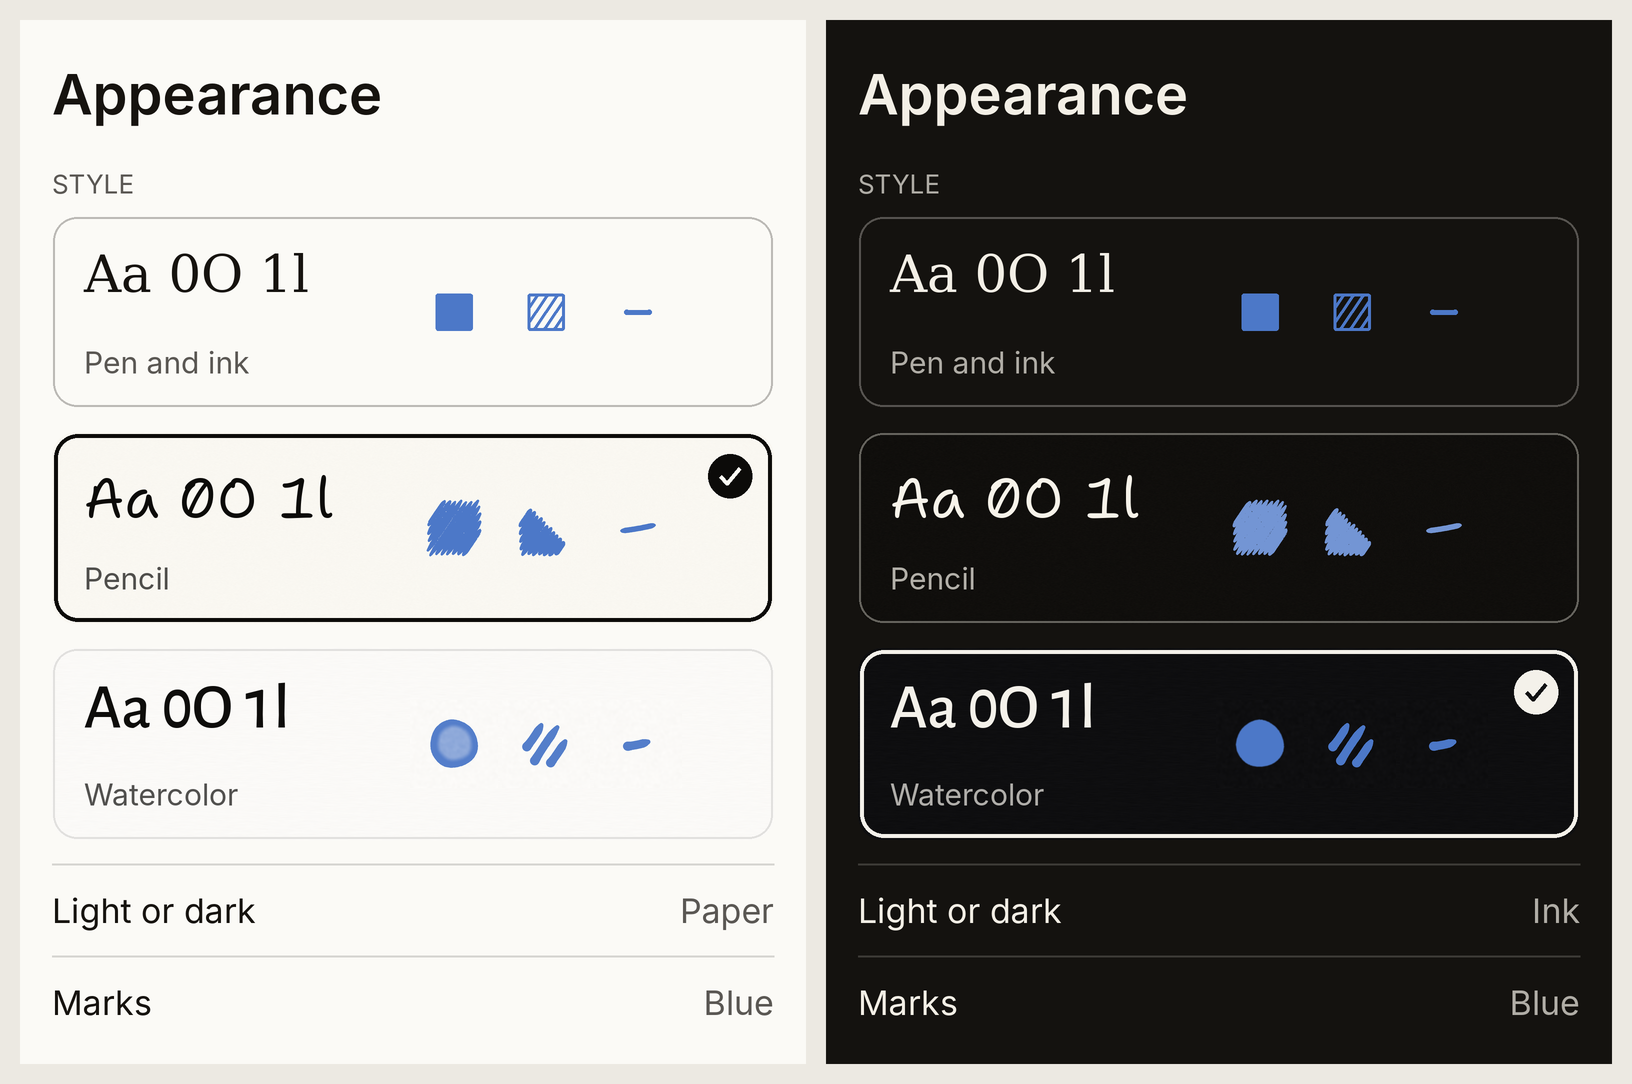
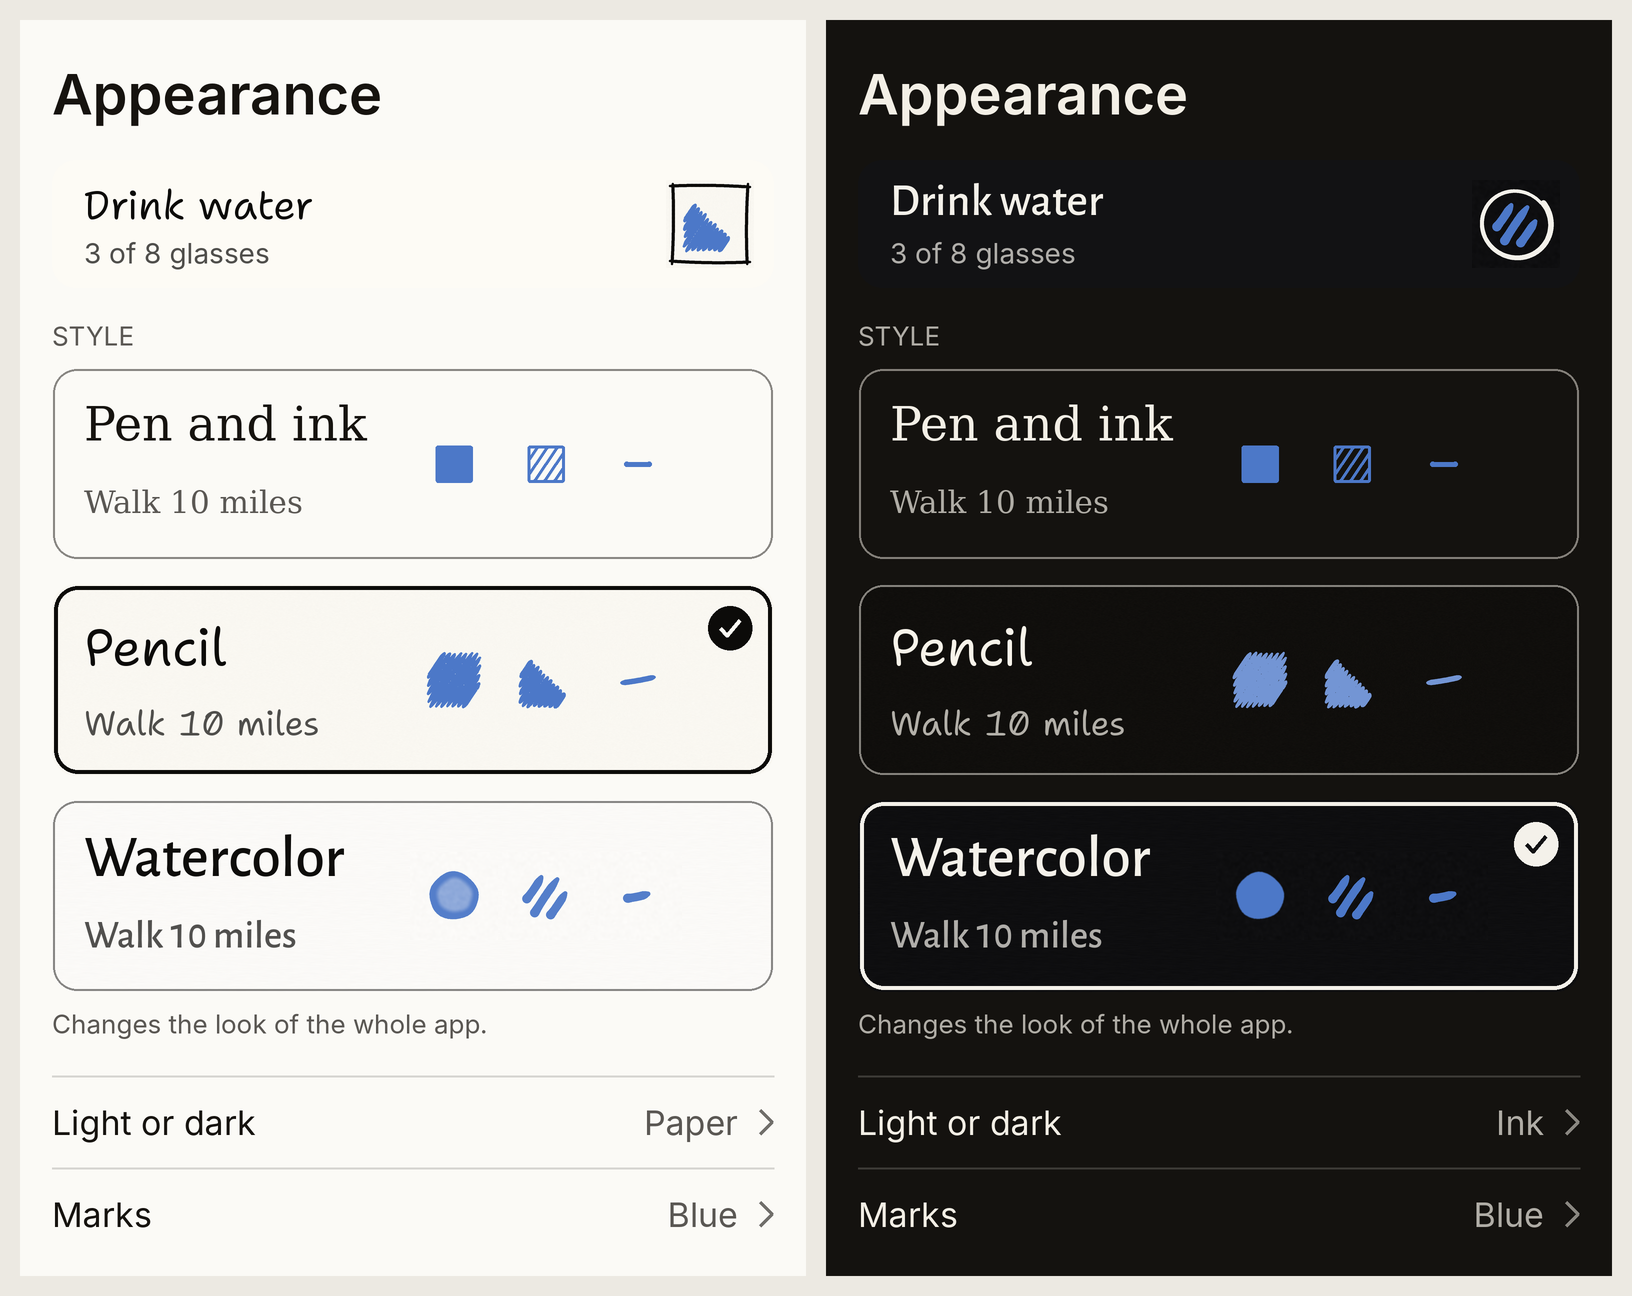
Style picker, round two: name as sample, preview row, 3:1 borders, helper line
Claude-Session: https://claude.ai/code/session_012NdevCAvT4U8qS7nMJ64YM

diff --git a/tools/marks/style_picker.py b/tools/marks/style_picker.py
@@ -46,9 +46,10 @@ def tile(style, name, ap, chosen, accent_hex="blue"):
         tex = np.resize(fm.tooth if style == "pencil" else fm.dimple, (th * Q, tw * Q))[..., None]
         field = field * (1 - g["maxAlpha"] * tex) + fm.hexrgb(g["color"]) * g["maxAlpha"] * tex
     im = Image.fromarray((np.clip(field, 0, 1) * 255).astype("uint8")); d = ImageDraw.Draw(im)
-    f, feats = display(style, 28 * Q); kw = {"features": feats} if feats else {}
-    d.text((16 * Q, 14 * Q), "Aa 0O 1l", font=f, fill=mix(text, text, 0), **kw)
-    d.text((16 * Q, 64 * Q), name, font=system(15 * Q), fill=mix(paper, text, tok["secondaryAlpha"]))
+    f, feats = display(style, 26 * Q); kw = {"features": feats} if feats else {}
+    d.text((16 * Q, 14 * Q), name, font=f, fill=mix(text, text, 0), **kw)                       # the name is the sample: set in the style's own font
+    f2, _ = display(style, 17 * Q)
+    d.text((16 * Q, 58 * Q), "Walk 10 miles", font=f2, fill=mix(paper, text, tok["secondaryAlpha"]), **kw)   # a habit name with 1, l, i and 0 in it
     for i, st in enumerate(("done", "part", "paused")):
         if style == "penAndInk": m = ink_mark(st, mix(paper, paper, 0), mix(accent, accent, 0), Q)
         else:
@@ -58,7 +59,7 @@ def tile(style, name, ap, chosen, accent_hex="blue"):
     r = 12 * Q
     mask = Image.new("L", im.size, 0); ImageDraw.Draw(mask).rounded_rectangle([0, 0, im.width - 1, im.height - 1], radius=r, fill=255)
     bw = 2 * Q if chosen else Q
-    d.rounded_rectangle([bw // 2, bw // 2, im.width - 1 - bw // 2, im.height - 1 - bw // 2], radius=r, outline=mix(text, text, 0) if chosen else mix(paper, text, tok["ruleAlpha"] + 0.12), width=bw)
+    d.rounded_rectangle([bw // 2, bw // 2, im.width - 1 - bw // 2, im.height - 1 - bw // 2], radius=r, outline=mix(text, text, 0) if chosen else mix(paper, text, 0.5), width=bw)   # the unchosen edge holds 3:1
     if chosen:                                                                 # a checkmark in a filled disc, top right: shape, not colour
         cx, cy, rr = (tw - 22) * Q, 22 * Q, 11 * Q
         d.ellipse([cx - rr, cy - rr, cx + rr, cy + rr], fill=mix(text, text, 0))
@@ -68,16 +69,28 @@ def tile(style, name, ap, chosen, accent_hex="blue"):
 
 def page(ap, chosen):
     base = fm.TOK["styles"]["penAndInk"][ap]; bg, text = fm.hexrgb(base["paper"]), fm.hexrgb(base["text"])
-    im = Image.new("RGB", (W * Q, 540 * Q), mix(bg, bg, 0)); d = ImageDraw.Draw(im)
+    im = Image.new("RGB", (W * Q, 660 * Q), mix(bg, bg, 0)); d = ImageDraw.Draw(im)
     d.text((16 * Q, 20 * Q), "Appearance", font=system(28 * Q, True), fill=mix(text, text, 0))
-    d.text((16 * Q, 74 * Q), "STYLE", font=system(13 * Q), fill=mix(bg, text, base["secondaryAlpha"]))
-    y = 98
+    # the preview: one Today row in the chosen style, on that style's paper
+    tok = fm.TOK["styles"][chosen][ap]; pp, pt = fm.hexrgb(tok["paper"]), fm.hexrgb(tok["text"]); accent = fm.hexrgb(fm.TOK["swatches"]["blue"])
+    pv = Image.new("RGB", ((W - 32) * Q, 64 * Q), mix(pp, pp, 0)); pd = ImageDraw.Draw(pv)
+    f, feats = display(chosen, 20 * Q); kw = {"features": feats} if feats else {}
+    pd.text((16 * Q, 9 * Q), "Drink water", font=f, fill=mix(pt, pt, 0), **kw)
+    pd.text((16 * Q, 38 * Q), "3 of 8 glasses", font=system(14 * Q), fill=mix(pp, pt, tok["secondaryAlpha"]))
+    img, _ = fm.render(chosen, ap, "part", accent, outline=True); side = int(fm.N / fm.S * Q)
+    pv.paste(Image.fromarray((np.clip(img, 0, 1) * 255).astype("uint8")).resize((side, side), Image.LANCZOS), (pv.width - side - 10 * Q, (pv.height - side) // 2))
+    pm = Image.new("L", pv.size, 0); ImageDraw.Draw(pm).rounded_rectangle([0, 0, pv.width - 1, pv.height - 1], radius=12 * Q, fill=255)
+    im.paste(pv, (16 * Q, 70 * Q), pm)
+    d.text((16 * Q, 150 * Q), "STYLE", font=system(13 * Q), fill=mix(bg, text, base["secondaryAlpha"]))
+    y = 174
     for style, name in STYLES:
         t, m = tile(style, name, ap, style == chosen); im.paste(t, (16 * Q, y * Q), m); y += 96 + 12
+    d.text((16 * Q, (y - 4) * Q), "Changes the look of the whole app.", font=system(13 * Q), fill=mix(bg, text, base["secondaryAlpha"])); y += 30
     for label, value in (("Light or dark", "Paper" if ap == "paper" else "Ink"), ("Marks", "Blue")):
         d.line([(16 * Q, y * Q), ((W - 16) * Q, y * Q)], fill=mix(bg, text, base["ruleAlpha"]), width=Q)
         d.text((16 * Q, (y + 13) * Q), label, font=system(17 * Q), fill=mix(text, text, 0))
-        vw = d.textlength(value, font=system(17 * Q)); d.text(((W - 16) * Q - vw, (y + 13) * Q), value, font=system(17 * Q), fill=mix(bg, text, base["secondaryAlpha"]))
+        vw = d.textlength(value, font=system(17 * Q)); d.text(((W - 34) * Q - vw, (y + 13) * Q), value, font=system(17 * Q), fill=mix(bg, text, base["secondaryAlpha"]))
+        cx, cy = (W - 20) * Q, (y + 23) * Q; d.line([(cx - 3 * Q, cy - 6 * Q), (cx + 3 * Q, cy), (cx - 3 * Q, cy + 6 * Q)], fill=mix(bg, text, base["tertiaryAlpha"]), width=int(1.8 * Q), joint="curve")   # these rows open lists
         y += 46
     return im.crop((0, 0, W * Q, (y + 8) * Q))
 

diff --git a/docs/spec-m4.md b/docs/spec-m4.md
@@ -220,18 +220,28 @@ Owner feedback, 16 November 2026, on the Pencil rows under Increase Contrast: th
 
 Owner, 16 November 2026: the smoothed Pencil marks read better and more like pencil. On Watercolor under Increase Contrast, the varied line weight of the ring keeps the control from reading as a radio button. The ring's thick start and thin end is therefore kept as a rule, not a detail. The human factors gate still runs before the build, with this view recorded beside it.
 
-## Step 6: the style picker. Rule written, drawn, in review
+## Step 6: the style picker. Round two
 
 Areas: adding a screen, layout, marks and type. It lives on the Appearance page that `docs/spec.md` already describes, in the "Style" row's place. Milestones 1 to 3 have one style, so nothing on `main` conflicts.
 
-The rule:
-- Three tiles, one per style, in the order Pen and ink, Pencil, Watercolor. Each tile is the full width of the page and they sit one under another at every text size. One layout serves the phone, the Mac and the largest text.
-- A tile is that style's own paper in the current appearance, with its grain. On it, from the left: the style's display font showing "Aa 0O 1l" at 28 points or more, then the done, part-done and paused marks at 24 points in the user's mark colour. The style's name sits under the sample in the system font.
-- Watercolor's sample is drawn at 1.15 times the size, as its habit names are.
-- The chosen tile has a 2 point border in the text colour and a checkmark at its top right. The others have a 1 point border in the rule colour. Selection is never shown by colour alone.
-- A tap chooses the style at once. Nothing is confirmed, because choosing again undoes it. The preview row at the top of the page redraws in the new style.
-- Each tile is one button of at least 76 points in height. VoiceOver says the name, then "style", then "selected" for the chosen one.
+The rule, as revised after round one:
+- The page opens with a preview: one Today row in the chosen style, with no scene. It redraws when the style changes.
+- Three tiles, one per style, in the order Pen and ink, Pencil, Watercolor. They sit one under another at every text size. A tile is the full width of the page, up to 360 points on the Mac and iPad.
+- A tile is that style's own paper in the current appearance, with its grain. On it: the style's name set in its own display font at 26 points, and under it "Walk 10 miles" in the same font at the size of a habit name. To the right, the done, part-done and paused marks at 24 points in the user's mark colour. The name is the sample. "Walk 10 miles" shows 1, l, i and 0 in words a person reads.
+- Watercolor's text is drawn at 1.15 times the size, as its habit names are.
+- The chosen tile has a 2 point border in the text colour and a checkmark in a filled disc at its top right. The others have a 1 point border that holds 3:1 against the page. Selection is never shown by colour alone.
+- One line under the tiles: "Changes the look of the whole app."
+- A tap chooses the style at once. Nothing is confirmed, because choosing again undoes it.
+- Each tile is one button of at least 76 points in height. VoiceOver reads the style's name with the selected trait. The sample line and the marks are hidden from VoiceOver. "Style" is a heading.
+- At the largest text sizes the text scales, the marks drop to their own line under it, and the tile grows.
 - Under Increase Contrast the marks on the tiles are drawn as step 4 says.
+- The "Light or dark" and "Marks" rows open lists and carry a disclosure chevron.
 - No tile shows a scene. Scenes are parked.
+
+Round one, 16 November 2026. Senior designer and product owner, and accessibility and first-day user, both failed the first drawing. They disagreed on the sample "Aa 0O 1l": the designer wanted it replaced by the style's name in its own font and the label removed; accessibility and the first-day user wanted the name first and the sample second. The option above meets both: the name is the first line and is itself the sample, and the second line is a readable habit name that still shows the glyphs a typographer checks.
+
+Not adopted: "Pen and ink marks measure 19 points, not 24". That is how `docs/mockups.html` and `main` draw them: the mark fills 0.78 of its nominal size.
+
+Gate for the in-app screens: the Pencil part-done mark read as a solid wedge to both groups at this size. Test: at 24 points on a device, can part done be told from done in Pencil at a glance. If it fails, the strokes open up.
 
 Drawing: `docs/mockups/png/m4-style-picker.png`, from `tools/marks/style_picker.py`. New York is not on this machine, so the Pen and ink sample is set in a stand-in serif.
